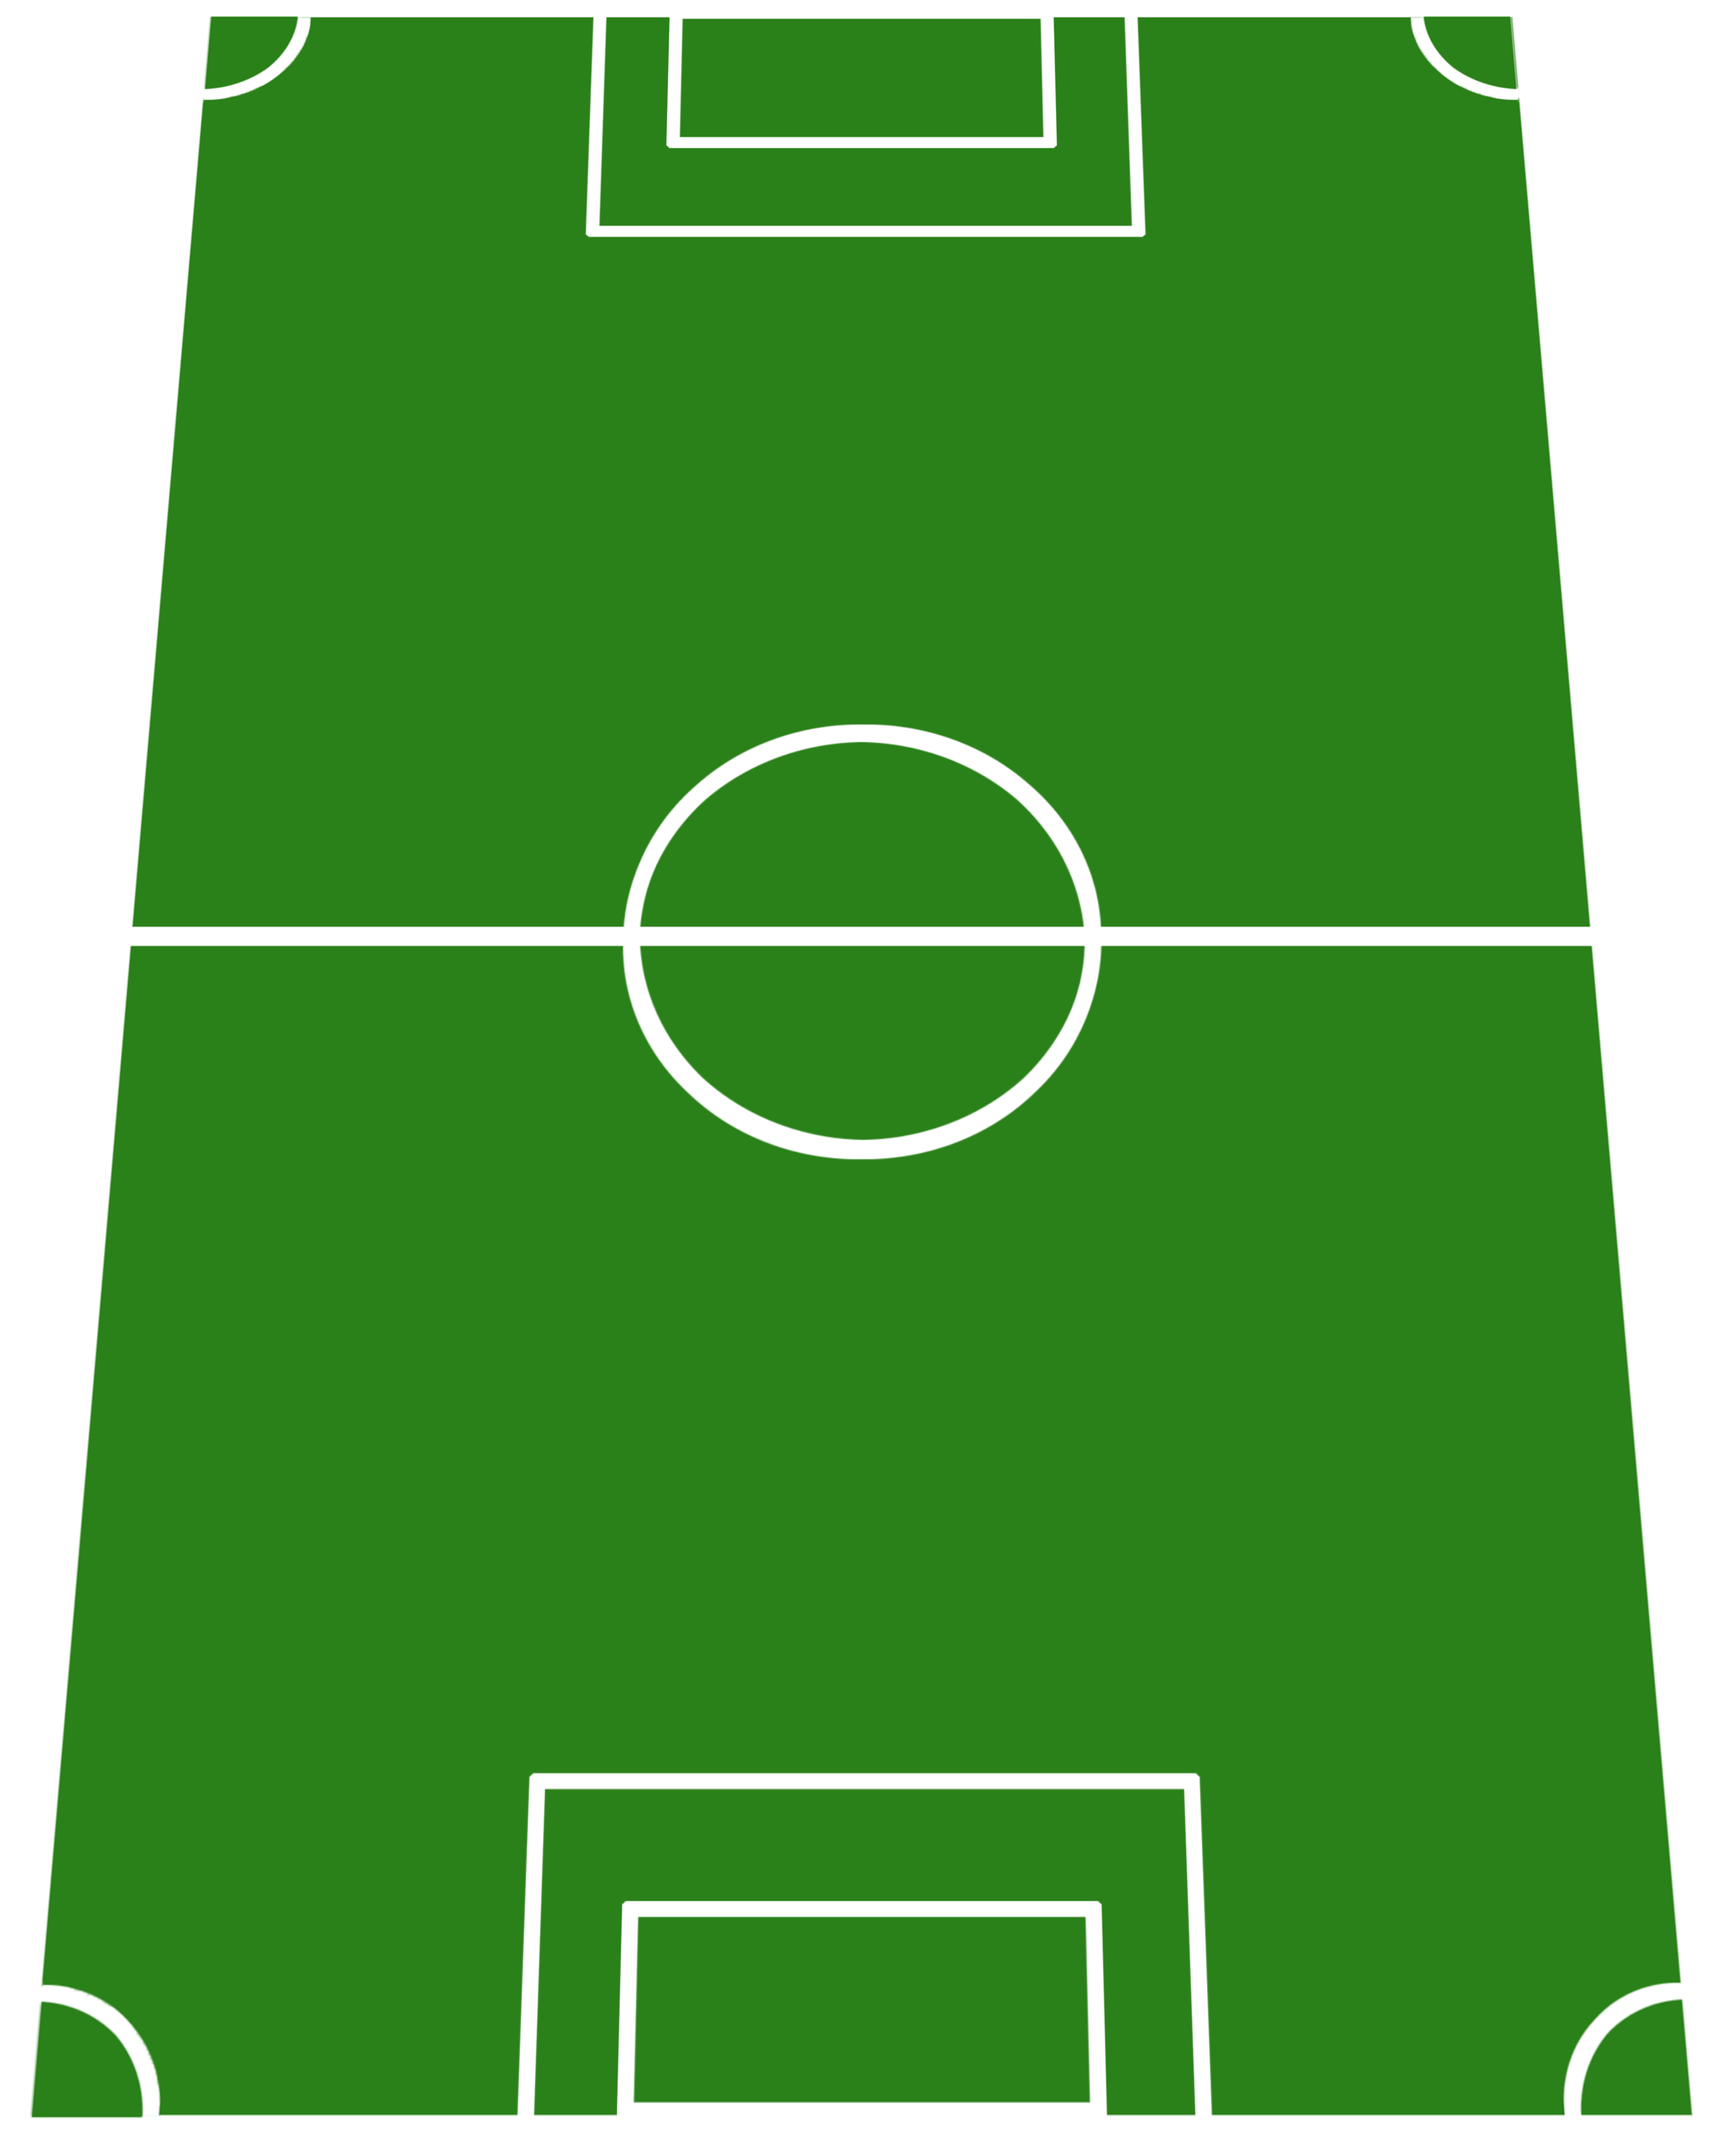
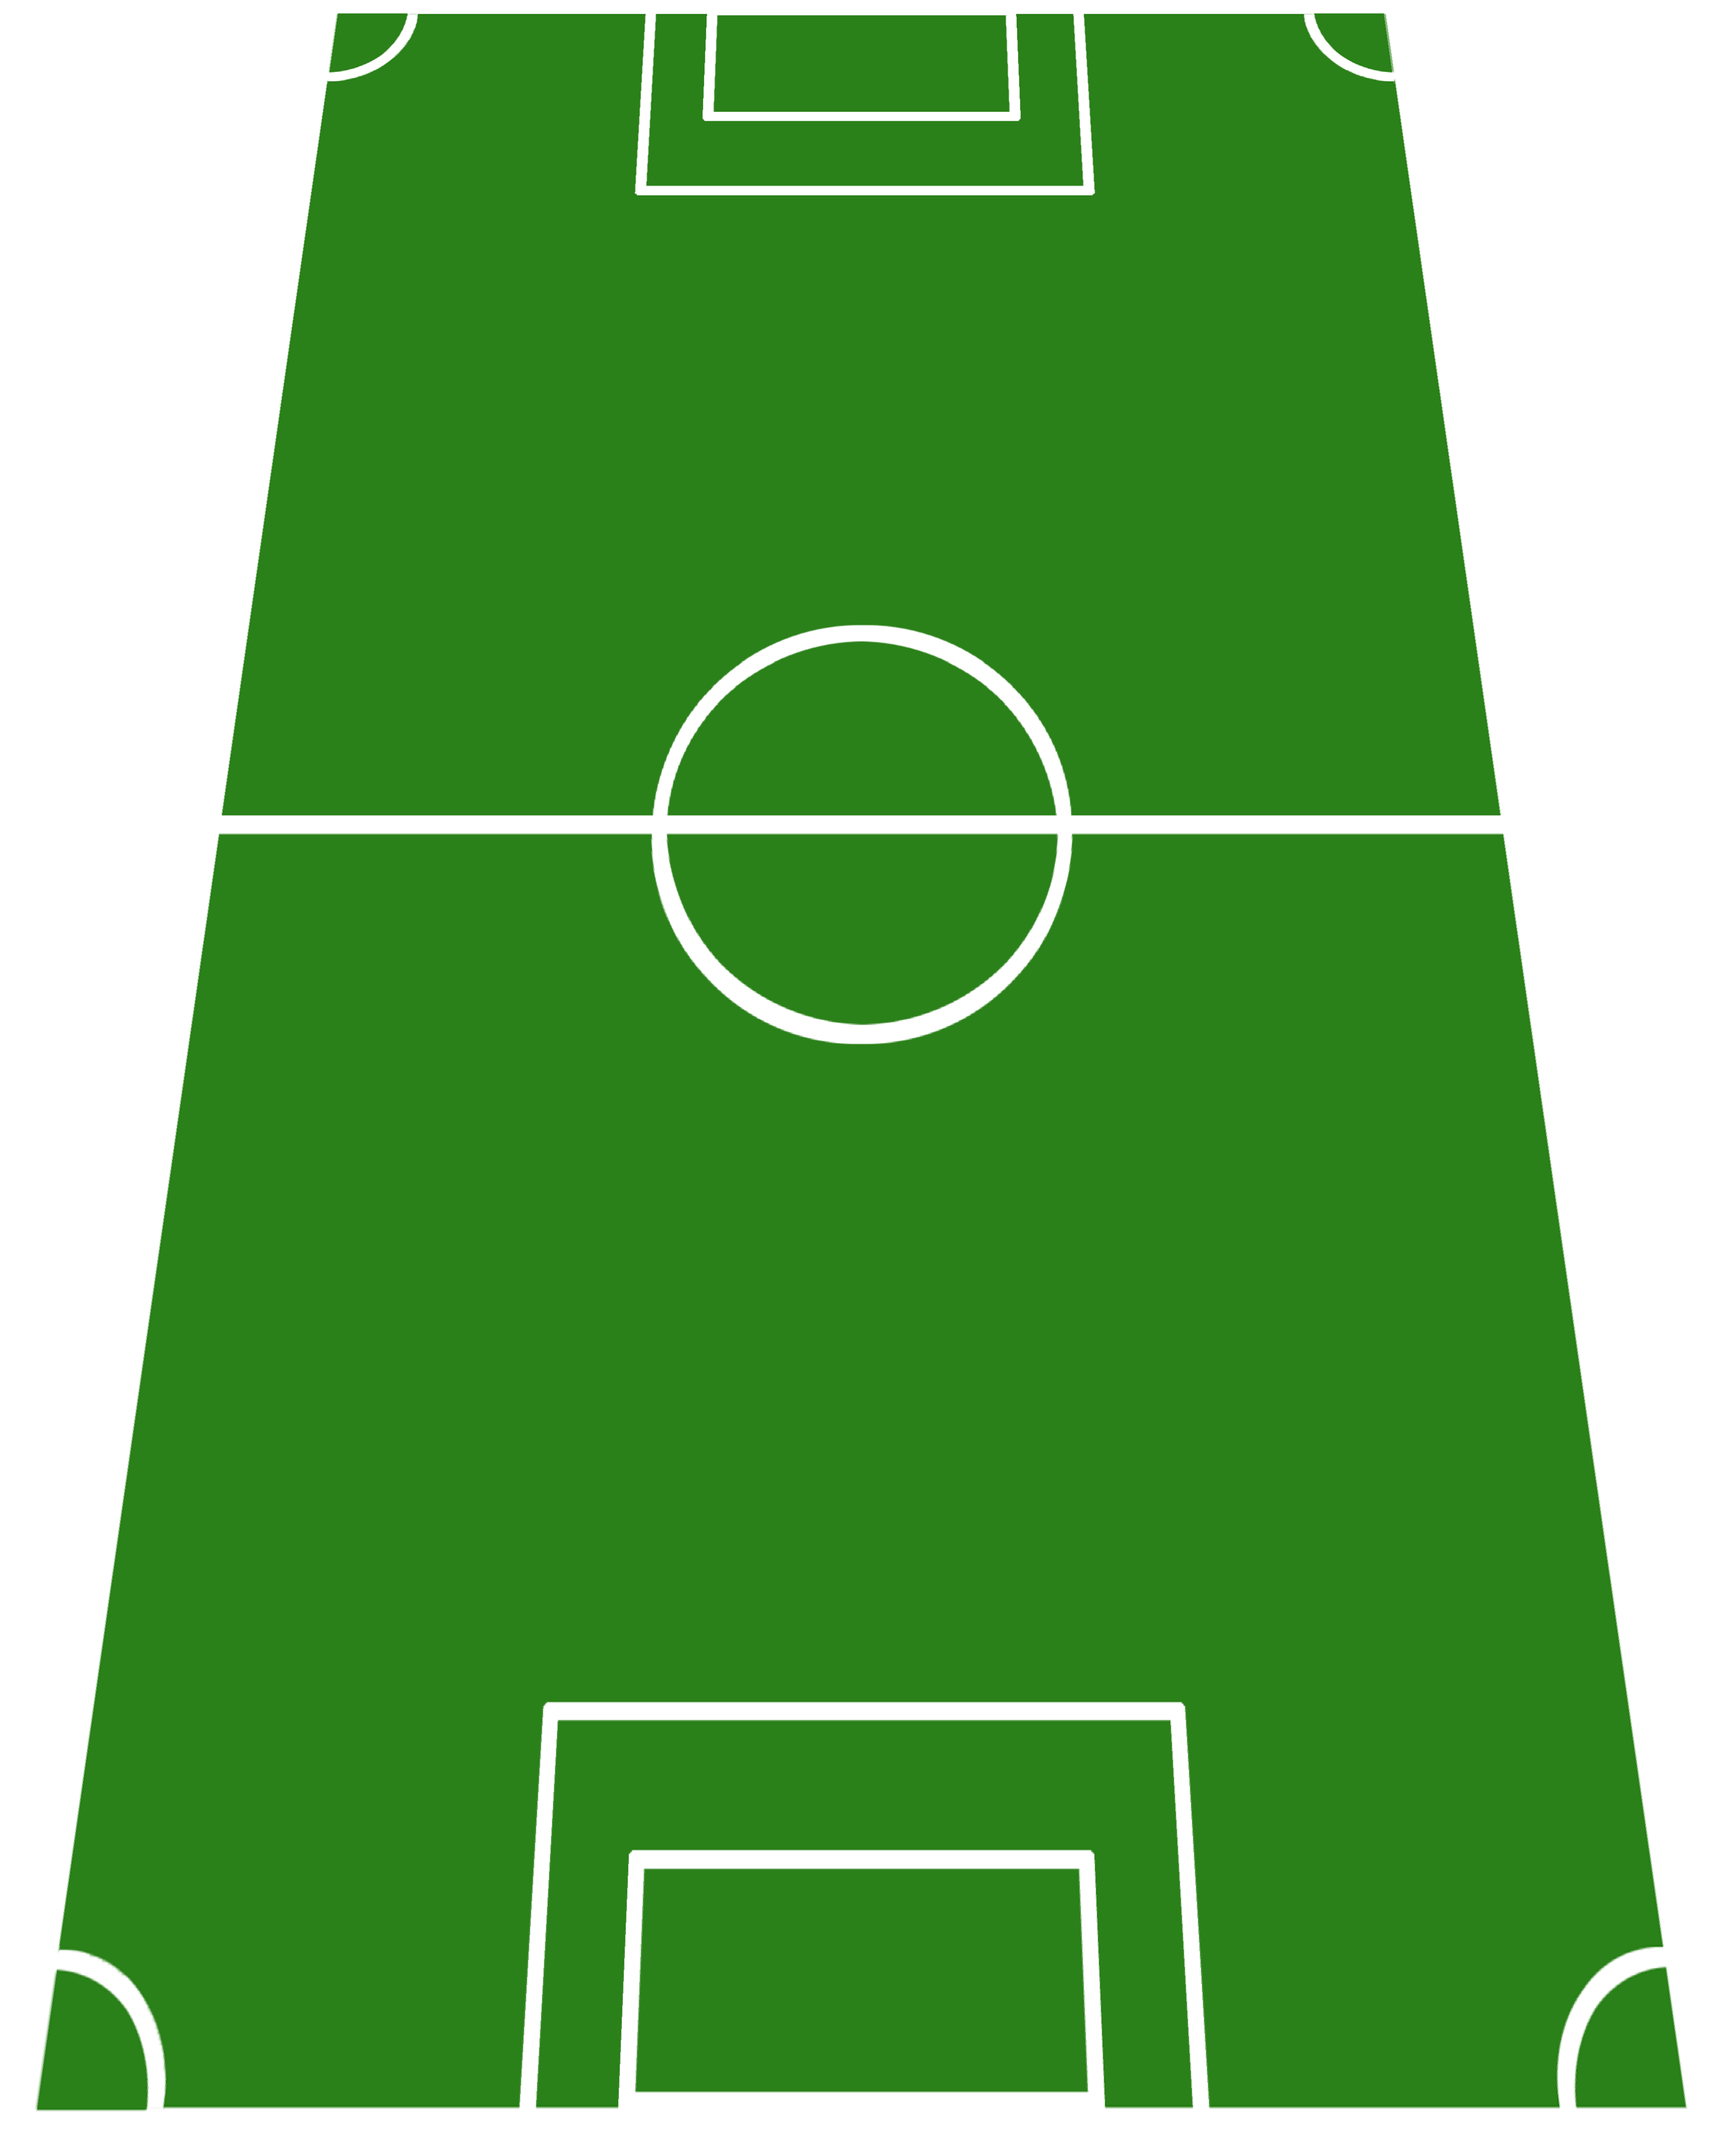
feat(team-edit): add player cards display on football field

Changed region(s): [[0.0, 0.0, 0.991, 0.9949], [0.3407, 0.0, 0.6813, 0.1244]]

diff --git a/src/pages/team-edit.tsx b/src/pages/team-edit.tsx
@@ -5,9 +5,12 @@ import { useParams } from "react-router-dom";
 import { Box, Container, Typography, CircularProgress } from "@mui/material";
 import { ShirtIcon } from "../components/icons";
 import { teamService } from "../services/teamService";
+import { playerService } from "../services/playerService";
 import { useAuth } from "../hooks/useAuth";
 import { useWebViewToken } from "../hooks/useWebViewToken";
 import type { Team } from "../types/team";
+import type { Player } from "../types/player";
+import PlayerCard from "../components/PlayerCard";
 
 const TeamEditPage: FC = () => {
   const { teamId } = useParams<{ teamId: string }>();
@@ -15,6 +18,7 @@ const TeamEditPage: FC = () => {
   const { webViewToken, loading: webViewLoading } = useWebViewToken();
 
   const [team, setTeam] = useState<Team | null>(null);
+  const [players, setPlayers] = useState<Player[]>([]);
   const [loading, setLoading] = useState(true);
   const [error, setError] = useState<string | null>(null);
 
@@ -24,9 +28,9 @@ const TeamEditPage: FC = () => {
     [webViewToken, token],
   );
 
-  // Загружаем данные команды
+  // Загружаем данные команды и игроков
   useEffect(() => {
-    const fetchTeam = async () => {
+    const fetchTeamAndPlayers = async () => {
       if (!teamId) {
         setLoading(false);
         setError("ID команды не указан");
@@ -40,8 +44,12 @@ const TeamEditPage: FC = () => {
       try {
         setLoading(true);
         setError(null);
-        const teamData = await teamService.getTeamById(teamId, activeToken);
+        const [teamData, playersData] = await Promise.all([
+          teamService.getTeamById(teamId, activeToken),
+          playerService.getPlayers(activeToken, teamId),
+        ]);
         setTeam(teamData);
+        setPlayers(playersData);
       } catch (err) {
         console.error("Error fetching team:", err);
         setError("Не удалось загрузить данные команды");
@@ -50,7 +58,7 @@ const TeamEditPage: FC = () => {
       }
     };
 
-    fetchTeam();
+    fetchTeamAndPlayers();
   }, [teamId, activeToken, authLoading, webViewLoading]);
 
   // Показываем loader пока идет загрузка
@@ -159,28 +167,75 @@ const TeamEditPage: FC = () => {
         <Box
           sx={{
             position: "relative",
-            padding: 3,
-            display: "flex",
-            justifyContent: "center",
-            alignItems: "center",
           }}
         >
+          {/* Изображение поля */}
           <Box
             component="img"
-            src="/images/football-field-2.png"
+            src="/images/football-field.png"
             alt="Football field"
             sx={{
-              position: "absolute",
-              top: 16,
+              padding: 2,
+              position: "relative",
               left: "50%",
-              transform: "translateX(-50%)",
-              width: "120%",
-              maxWidth: 600,
-              height: "auto",
-              objectFit: "contain",
+              width: "150%",
+              transform: "translate(-50%, 0)",
+              height: "100%",
+              display: "block",
+              margin: "0 auto",
+              filter: "hue-rotate(50deg) brightness(1.2) contrast(1.1)",
+            }}
+          />
+
+          {/* Контейнер для игроков - позиционируется поверх поля */}
+          <Box
+            sx={{
+              position: "absolute",
+              top: "50%",
+              left: "50%",
+              transform: "translate(-50%, -50%)",
+              width: "100%",
+              maxWidth: 500,
+              height: "100%",
+              pointerEvents: "none",
             }}
           >
-            {/* Здесь будет форма редактирования состава команды */}
+            {/* Формация 4-3-3 */}
+            {players.slice(0, 11).map((player, index) => {
+              // Определяем позицию игрока на поле (пример для 4-3-3)
+              const positions = [
+                // Вратарь
+                { top: "5%", left: "50%", transform: "translateX(-50%)" },
+                // Защитники (4)
+                { top: "25%", left: "15%" },
+                { top: "25%", left: "38%" },
+                { top: "25%", left: "62%" },
+                { top: "25%", left: "85%" },
+                // Полузащитники (3)
+                { top: "50%", left: "25%" },
+                { top: "50%", left: "50%", transform: "translateX(-50%)" },
+                { top: "50%", left: "75%" },
+                // Нападающие (3)
+                { top: "75%", left: "25%" },
+                { top: "75%", left: "50%", transform: "translateX(-50%)" },
+                { top: "75%", left: "75%" },
+              ];
+
+              const position = positions[index] || {
+                top: "50%",
+                left: "50%",
+                transform: "translate(-50%, -50%)",
+              };
+
+              return (
+                <PlayerCard
+                  key={player.id}
+                  playerName={player.fullName}
+                  playerNumber={player.number}
+                  position={position}
+                />
+              );
+            })}
           </Box>
         </Box>
       </Container>

diff --git a/src/components/PlayerCard.tsx b/src/components/PlayerCard.tsx
@@ -1,0 +1,86 @@
+import { type FC } from "react";
+import { Box, Typography } from "@mui/material";
+import { ShirtIcon } from "./icons";
+
+interface PlayerCardProps {
+  playerName: string;
+  playerNumber: number;
+  position: {
+    top?: string;
+    left?: string;
+    right?: string;
+    bottom?: string;
+  };
+}
+
+const PlayerCard: FC<PlayerCardProps> = ({
+  playerName,
+  playerNumber,
+  position,
+}) => {
+  return (
+    <Box
+      sx={{
+        position: "absolute",
+        display: "flex",
+        flexDirection: "column",
+        alignItems: "center",
+        gap: 0.5,
+        ...position,
+      }}
+    >
+      {/* Иконка футболки с номером */}
+      <Box
+        sx={{
+          position: "relative",
+          width: 60,
+          height: 60,
+          display: "flex",
+          alignItems: "center",
+          justifyContent: "center",
+          backgroundColor: "rgba(255, 255, 255, 0.9)",
+          borderRadius: 2,
+          boxShadow: "0 2px 8px rgba(0,0,0,0.15)",
+        }}
+      >
+        <ShirtIcon size={48} strokeColor="#1976d2" />
+        <Typography
+          sx={{
+            position: "absolute",
+            fontSize: "12px",
+            lineHeight: "12px",
+            fontWeight: 700,
+            color: "#1976d2",
+            backgroundColor: "white",
+          }}
+        >
+          {playerNumber}
+        </Typography>
+      </Box>
+
+      {/* Имя игрока */}
+      <Box
+        sx={{
+          backgroundColor: "rgba(255, 255, 255, 0.95)",
+          borderRadius: 1,
+          px: 1,
+          py: 0.5,
+          boxShadow: "0 1px 4px rgba(0,0,0,0.1)",
+        }}
+      >
+        <Typography
+          sx={{
+            fontSize: "12px",
+            fontWeight: 600,
+            color: "text.primary",
+            whiteSpace: "nowrap",
+          }}
+        >
+          {playerName}
+        </Typography>
+      </Box>
+    </Box>
+  );
+};
+
+export default PlayerCard;
